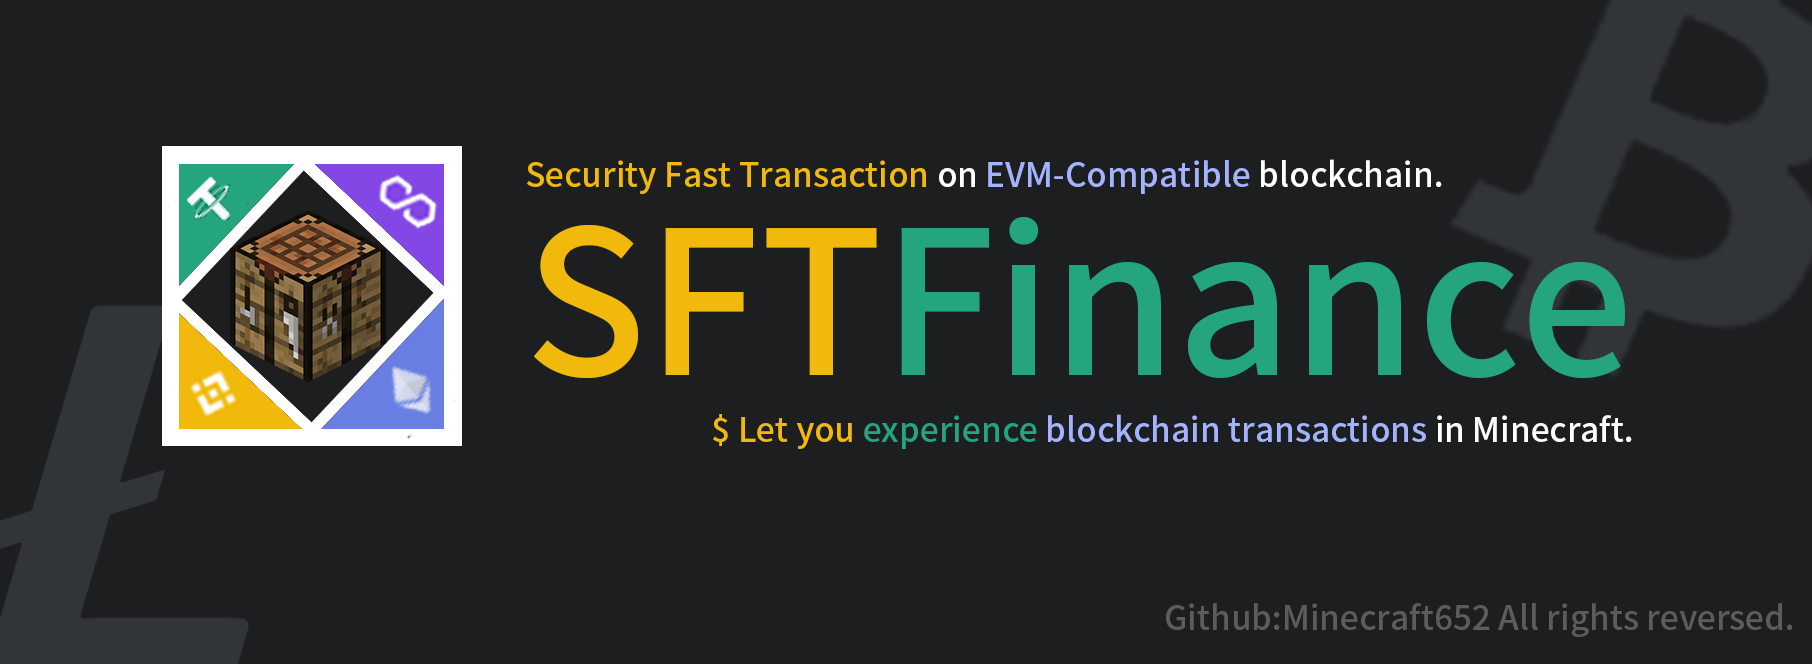
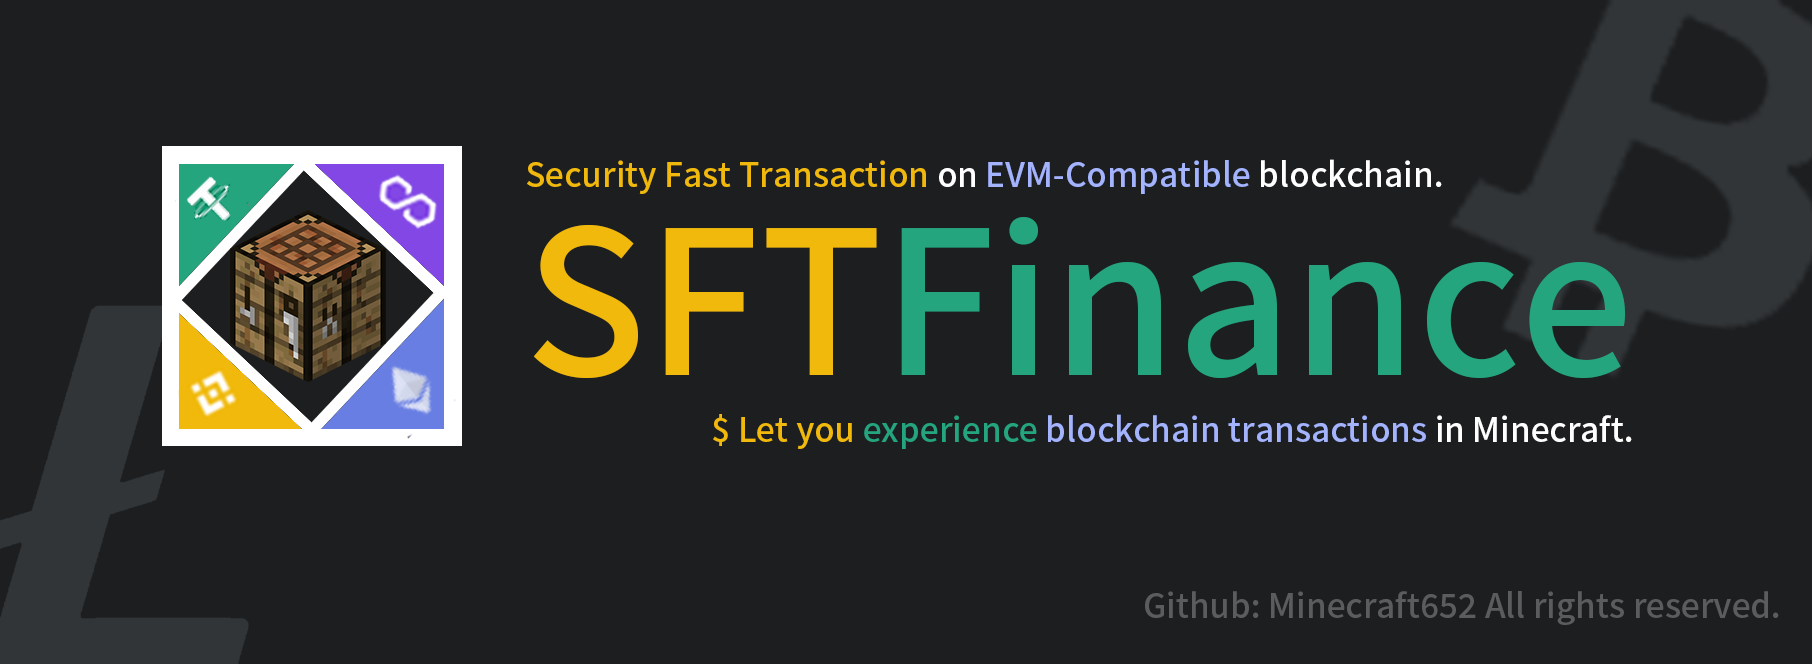
Add files via upload

Changed region(s): [[0.6181, 0.8735, 0.989, 0.9639]]

diff --git a/README.md b/README.md
@@ -12,14 +12,25 @@ Its features provide players and administrators with operations on the Ethereum 
 
 Tokens that allow interaction between original tokens and ERC20 standard tokens smart contracts.(Like Ether,USDT)
 
-## End User License Agreement
+## SFTFinance End User License Agreement
 
-To use SFTFinance (hereinafter referred to as this software),(author is https://github.com/Minecraft652) you need to agree to the following agreements:
+Copyright (c) Github:Minecraft652. All rights reserved.
+https://github.com/Minecraft652
+
+Permission is hereby granted, Only free to provide the right to use and copy the software and relevant documents to anyone.
+It does not include any rights to modify, merge, distribute, sublicense and/or sell copies of the Software or other special rights.
+If you require additional rights, please contact the author for permission.
+
+The above copyright notice and this permission notice shall be included in all copies or substantial portions of the Software.
+
+THE SOFTWARE IS PROVIDED “AS IS”, WITHOUT WARRANTY OF ANY KIND, EXPRESS OR IMPLIED, INCLUDING BUT NOT LIMITED TO THE WARRANTIES OF MERCHANTABILITY, FITNESS FOR A PARTICULAR PURPOSE AND NONINFRINGEMENT. IN NO EVENT SHALL THE AUTHORS OR COPYRIGHT HOLDERS BE LIABLE FOR ANY CLAIM, DAMAGES OR OTHER LIABILITY, WHETHER IN AN ACTION OF CONTRACT, TORT OR OTHERWISE, ARISING FROM, OUT OF OR IN CONNECTION WITH THE SOFTWARE OR THE USE OR OTHER DEALINGS IN THE SOFTWARE.
+
+## To use SFTFinance you should know.
 
 - The player wallet data of this software is the user's personal privacy data.
 - Using this software, all operations are caused by personal, such as asset loss the author does not assume any responsibility.
 - Investment is risky and operation should be cautious. Please comply with local laws and regulations when using this software.
-- The author reserves all rights of this software, users and administrators can use this software for free.
+- The author reserves all rights of this software. Please read the license agreement. If you continue to use the software, it will be assumed that you have agreed.
 
 ## Features
 
@@ -57,6 +68,7 @@ To use SFTFinance (hereinafter referred to as this software),(author is https://
 - /wallet gas - View default Gas limits, prices, etc.
 - /wallet delete - Delete the current wallet.
 - /wallet player (name) - View the specified player's wallet address, balance.
+- /wallet import (privatekey) - import your private key into SFTFinance.
 - /wallet exchange - View the currently active deals.
 - /wallet exchange (transaction pair) - Transactions with the server. (The administrator needs to configure the transaction pair.)
 - /wallet exchange (transaction pair) info - View this deal details.

diff --git a/README_zh.md b/README_zh.md
@@ -14,12 +14,22 @@ SFTFinance 是一个基于Bukkit/Spigot开发的我的世界服务端插件
 
 ## 最终用户许可协议
 
-使用 SFTFinance（以下称为本软件）您需要同意以下协议：
+版权(c) Github: Minecraft652。保留所有权利。(翻译来自 英文版本)
+https://github.com/Minecraft652
+
+谨此同意，只免费向任何人提供使用和复制本软件及相关文件的权利。
+不包括任何修改、合并、分发、再授权和/或出售“软件”副本的权利或其他特殊权利。
+如果您需要额外的权利，请联系作者的许可。
+上述版权声明和本许可声明应包含在软件的所有副本或主要部分中。
+
+本软件是“按现状”提供的，没有任何形式的明示或暗示的保证，包括但不限于适销性、适合特定用途和不侵权的保证。在任何情况下，作者或版权所有人都不应对任何索赔、损害赔偿或其他责任负责，无论是在合同、侵权或其他行为中，或与软件或软件的使用或其他交易有关的行为。
+
+## 使用 SFTFinance 你需要知道的
 
 - 本软件的玩家钱包数据均为用户个人隐私数据。
 - 使用本软件，所有操作均为个人所致，如有资产损失作者不承担任何责任。
 - 投资有风险，操作需谨慎。使用本软件请您遵守当地法律规范。
-- 作者保留本软件的所有权利，用户及管理员均可以免费使用本软件。
+- 作者保留本软件的所有权利，请阅读许可协议，如果您继续使用本软件，将默认您已经同意该协议。
 
 ## 功能
 
@@ -55,6 +65,7 @@ SFTFinance 是一个基于Bukkit/Spigot开发的我的世界服务端插件
 - /wallet keys - 查看您的钱包助记词，密钥等.
 - /wallet create - 创建一个钱包(前提是没有).
 - /wallet player <玩家名称> - 查看指定玩家的钱包地址,余额.
+- /wallet import <私钥> - 导入钱包至SFTFinance.
 - /wallet gas - 查看默认Gas限制,价格等设置.
 - /wallet delete - 删除当前钱包.
 - /wallet exchange - 查看当前活跃的交易对.
